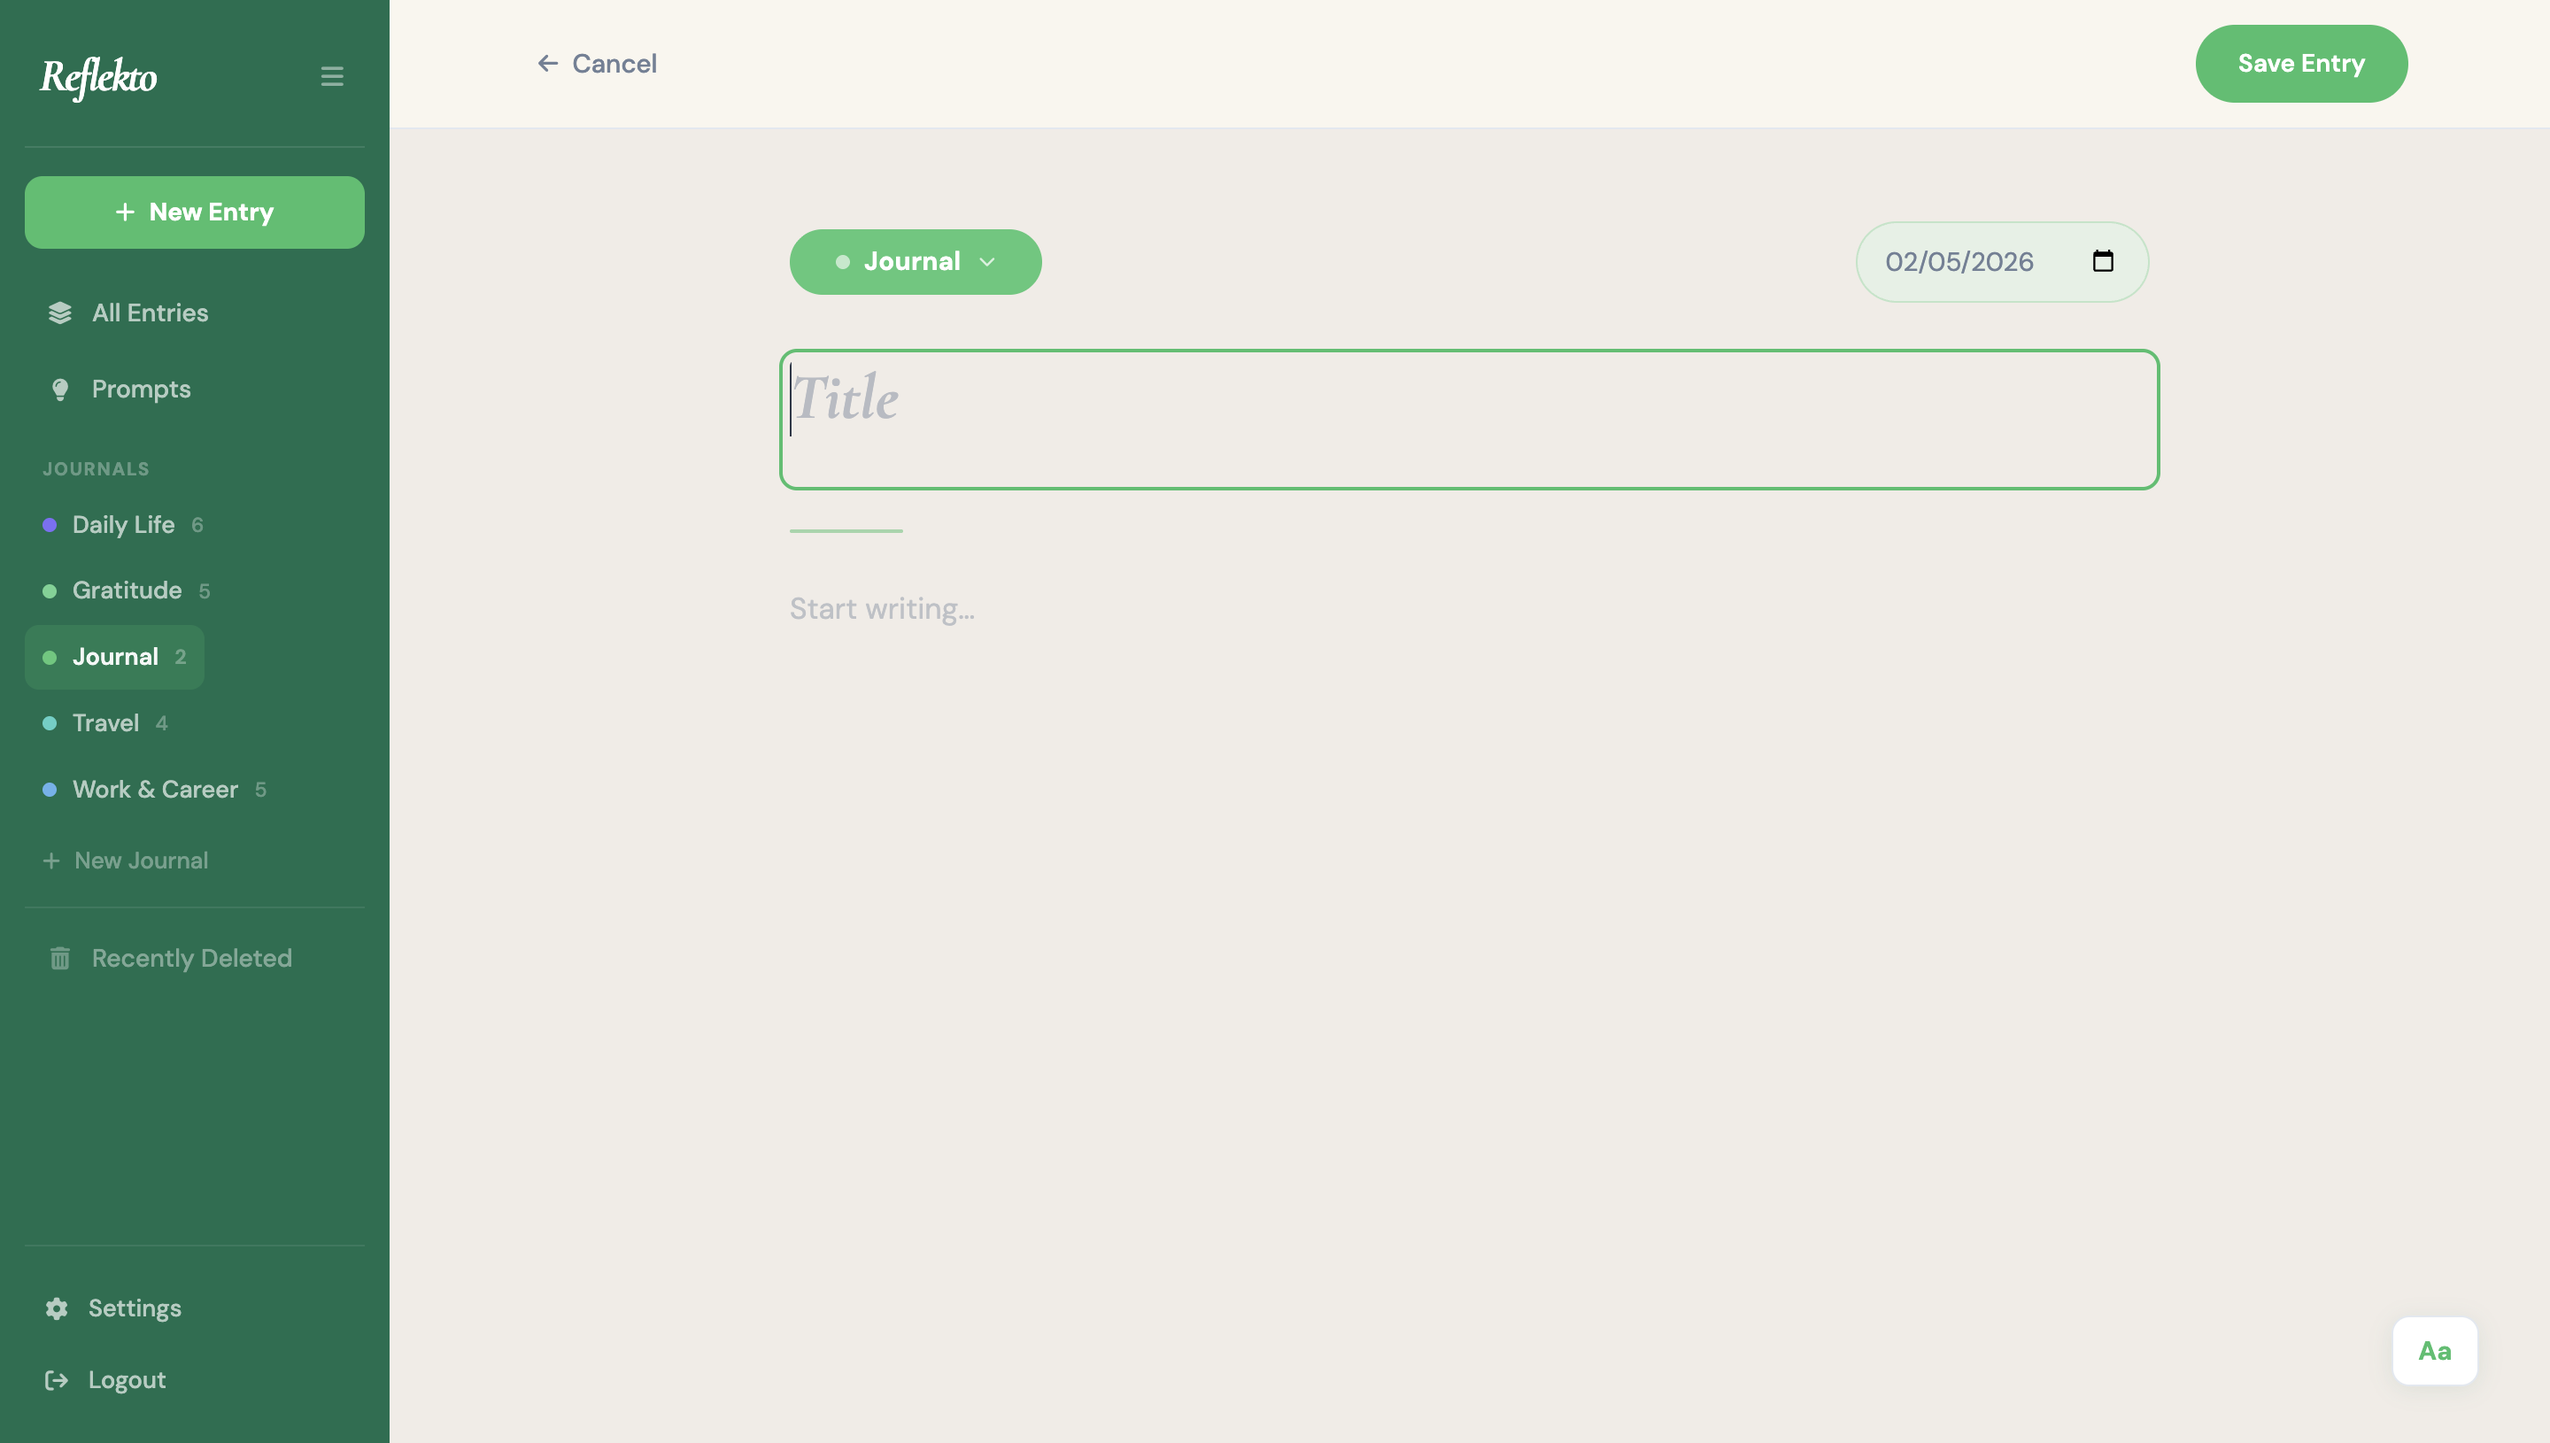
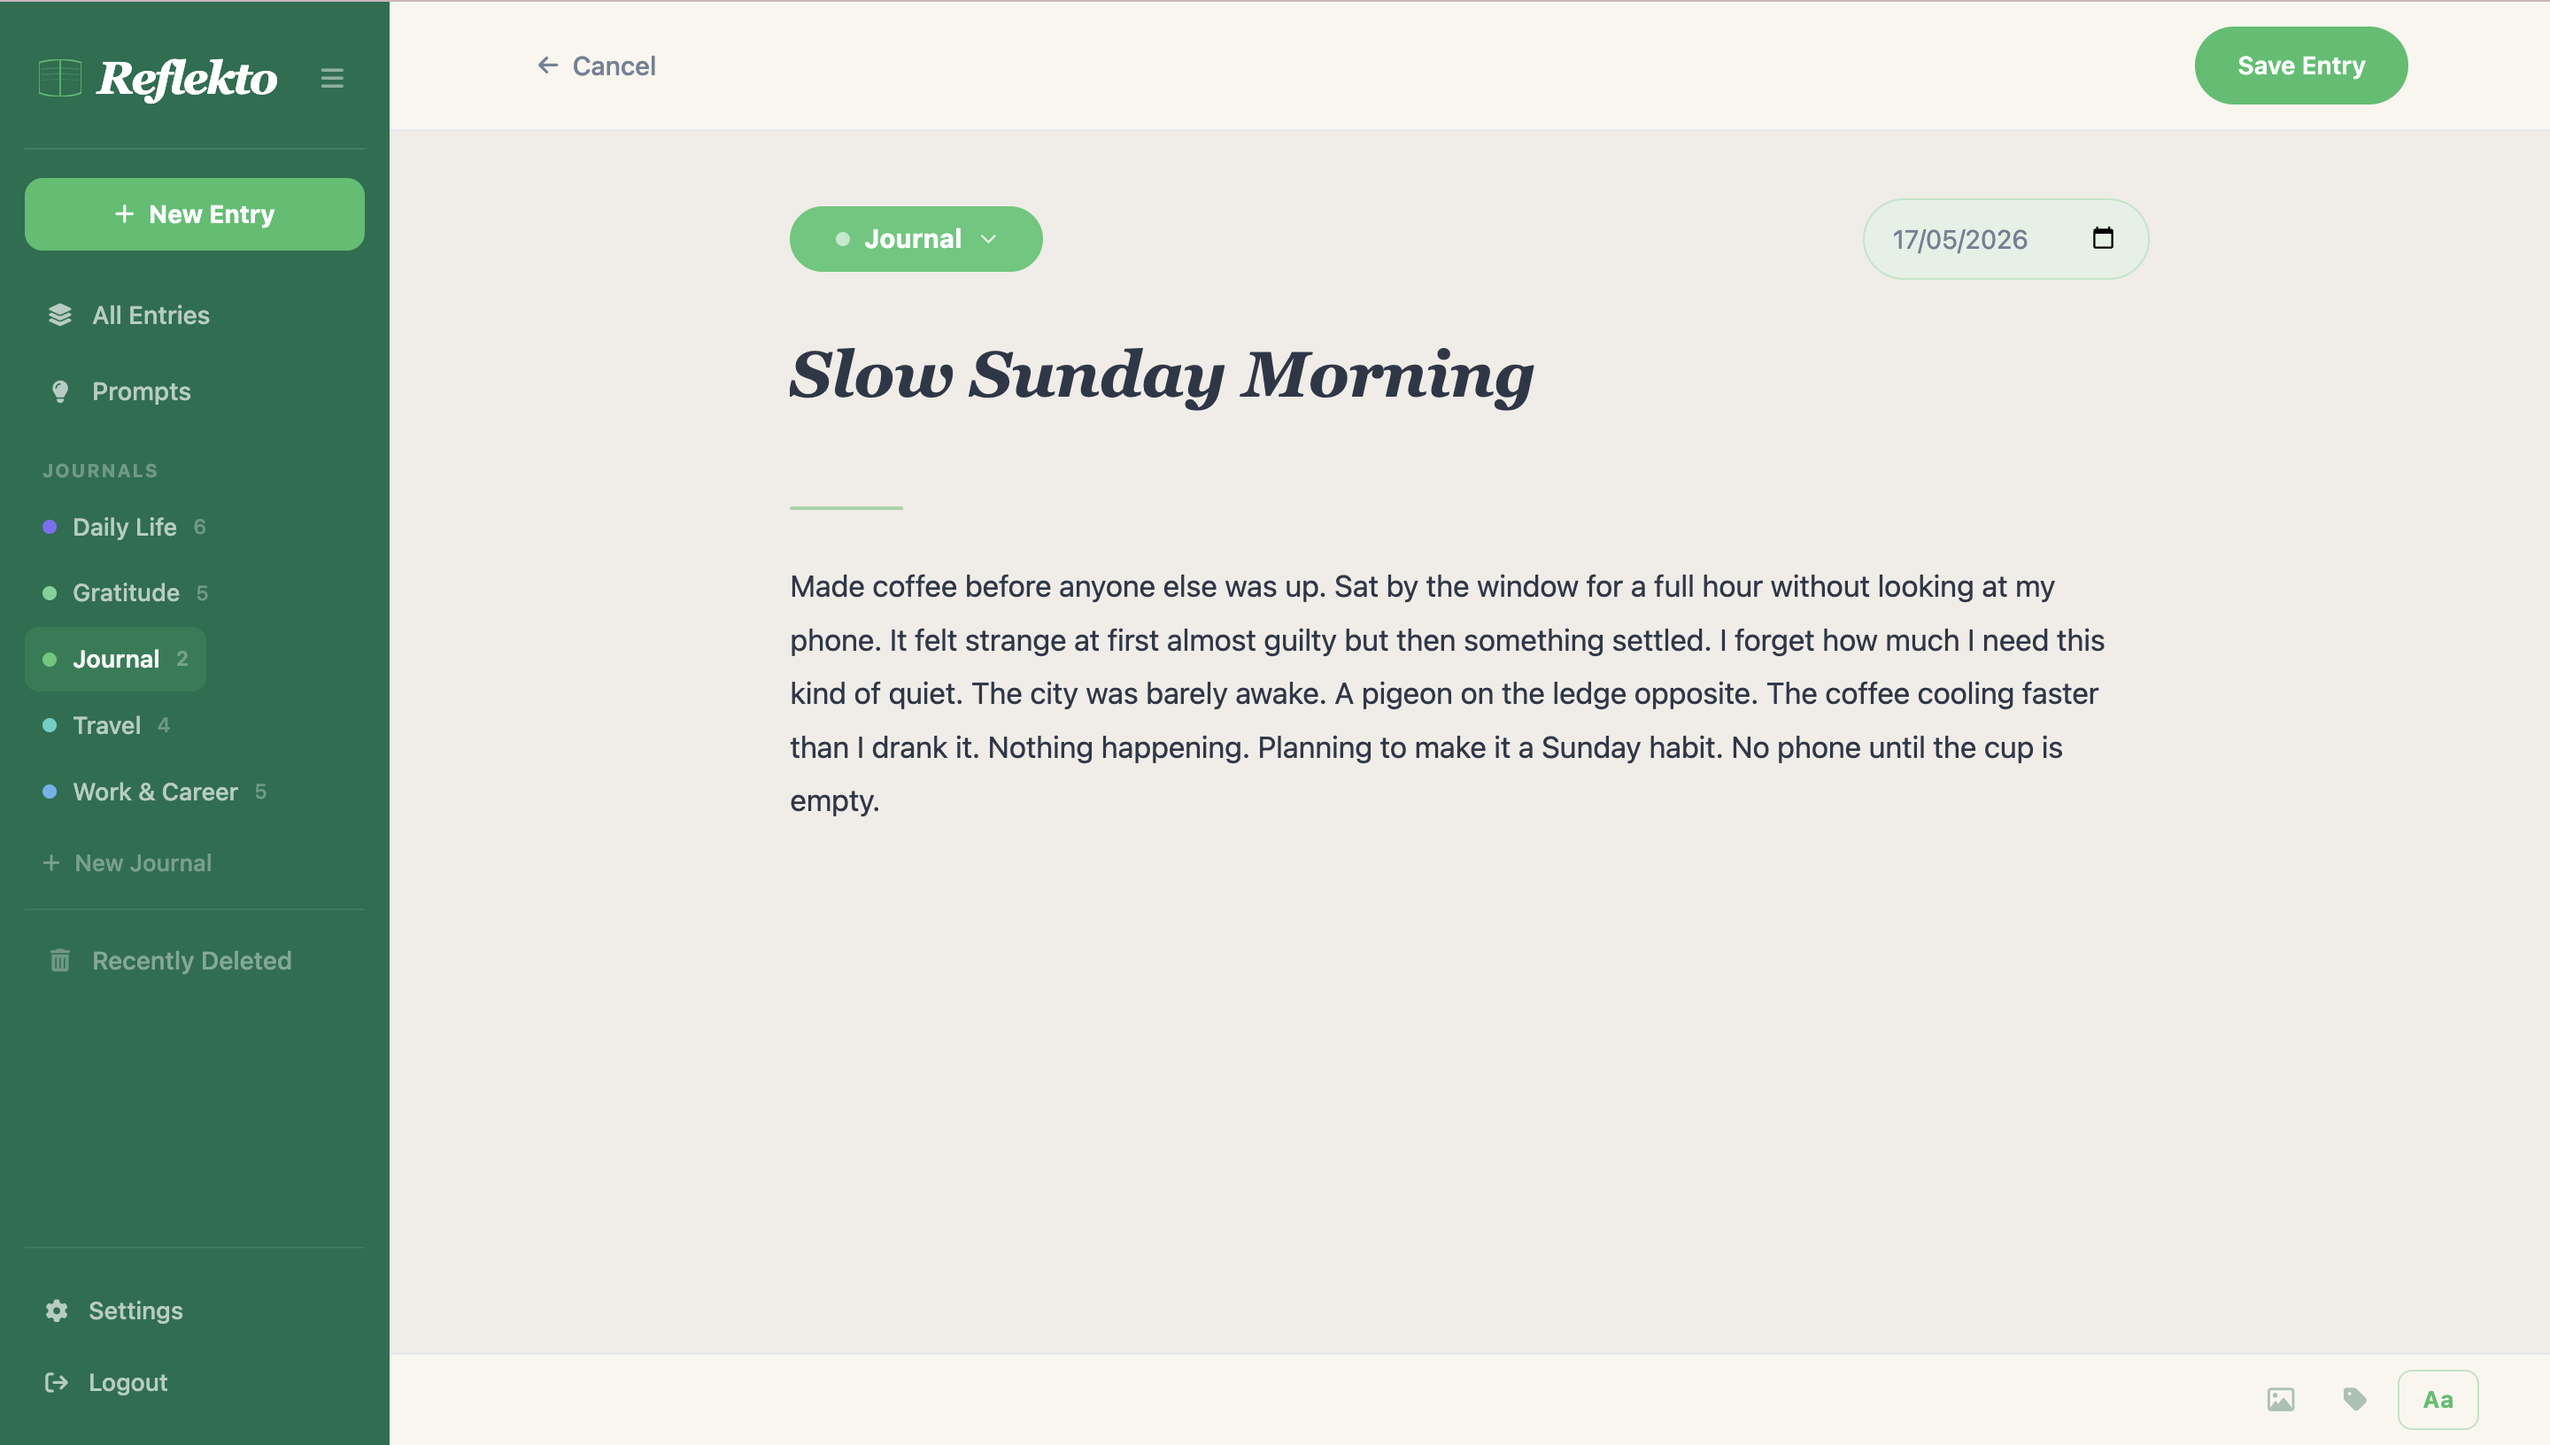
chore: update Phase 6 checklist and screenshot asset

diff --git a/claude.md b/claude.md
@@ -164,13 +164,15 @@ Recommended improvement: ditch the cron + window approach. Instead, when a user 
 ### 🚀 Phase 6: Final Refinement & Launch
 *Goal: Squash bugs and go live.*
 
-- [ ] Run `heroku run rails db:migrate --app reflektoapp` — apply `provider`/`uid` + `timezone` + `confirmable` columns to prod DB
-- [ ] Test Google OAuth end-to-end on production
-- [ ] Verify Resend email delivery (welcome email + forgot-password + confirmation) on production
-- [ ] Verify GoodJob reminder cron fires correctly on production
-- [ ] Cleanup: Remove faker gem, clear test seeds
-- [ ] Merge `feature/google-oauth-and-improvements` → `master` (open PR first)
-- [ ] Final smoke test on https://www.reflektoapp.com
+- [x] Run `heroku run rails db:migrate --app reflektoapp` — `provider`/`uid` columns confirmed present in production
+- [x] Cleanup: Faker gem removed, seeds production-safe (guard clause in place, only alex@reflekto.app demo data)
+- [x] Merge `feature/google-oauth-and-improvements` → `master` (PR #18, merged)
+- [x] Bug fixes (branch `fix/landing-page-scroll-reveal`): scroll-reveal animation (CSP/Stimulus), tag autocomplete (mousedown blur fix + scrollable dropdown), streak stat on All Entries, multi-tag filter, name presence validation, delete account paste prevention, legal page nav spacing, about page, showcase copy, password reset security (30 min expiry, no raw URL)
+- [x] **Fix Google OAuth on production** — `Error 400: redirect_uri_mismatch`. Add `https://www.reflektoapp.com/users/auth/google_oauth2/callback` to Authorized Redirect URIs in Google Cloud Console (APIs & Services → Credentials → OAuth 2.0 Client)
+- [x] Merge `fix/landing-page-scroll-reveal` → `master`, push to Heroku
+- [x] Verify Resend email delivery on production (welcome email + forgot-password + confirmation)
+- [x] Verify GoodJob reminder cron fires correctly on production
+- [x] Final smoke test on https://www.reflektoapp.com
 - [ ] Migrate from Heroku to Railway (reduces ~$15/month)
   - Sign up at railway.app, connect GitHub repo
   - Add PostgreSQL service (auto-injects `DATABASE_URL`)
@@ -183,24 +185,26 @@ Recommended improvement: ditch the cron + window approach. Instead, when a user 
 ---
 
 ## Current Status
-**Branch:** `feature/google-oauth-and-improvements`
+**Branch:** `fix/landing-page-scroll-reveal` (ready to merge → master)
 
 **Phases Complete:** Phase 1, Phase 2, Phase 3, Phase 4, Phase 5, Phase 5.5 ✅
 
 **Current Phase:** Phase 6 — Final Refinement & Launch
 
-**Completed since last update (May 1, 2026):**
-- GoodJob background jobs: `SendReminderEmailJob` (every 5 min cron) + `PurgeExpiredEntriesJob` (nightly cron)
-- Resend email: ActionMailer SMTP configured for dev + prod, `UserMailer#welcome` + `ReminderMailer#daily_reminder` with HTML + text templates
-- Google OAuth: full flow — Google Cloud Console credentials, `omniauth-google-oauth2` gem, `User.from_omniauth`, callback controller, routes
-- Auth page redesign: solid black Google button, removed confirm password, logo as home link, ToS line on sign-up, `auth-divider`
-- Heroku deployment: app live at https://www.reflektoapp.com (Heroku EU, Postgres add-on, Cloudinary, ACM SSL)
+**Completed since last update (May 17, 2026):**
+- All 6 local bugs fixed and committed on `fix/landing-page-scroll-reveal`
+- About page created (`/about`) with founder story, values (simplicity, privacy-first, free forever), CTA
+- Showcase Row 2 copy updated on landing page
+- Password reset email: 30-minute expiry, raw URL fallback removed (one-time use is Devise built-in)
+- Manifest.js fix: `//= link application.css` added to resolve `AssetNotPrecompiledError`
+- Production DB cleaned: only `alex@reflekto.app` remains (both local and Heroku)
+- Production migration confirmed: `provider`/`uid` columns exist
 
 **Immediate next steps:**
-1. `heroku run rails db:migrate --app reflektoapp` — adds `provider`/`uid` columns to prod DB
-2. Test Google OAuth on production
-3. Open PR: `feature/google-oauth-and-improvements` → `master`
-4. Phase 6 cleanup (remove faker, test seeds)
+1. Add `https://www.reflektoapp.com/users/auth/google_oauth2/callback` to Google Cloud Console OAuth redirect URIs (fixes production OAuth)
+2. Merge `fix/landing-page-scroll-reveal` → `master` and `git push heroku master`
+3. Verify email delivery (Resend) and GoodJob cron on production
+4. Final smoke test
 
 ---
 
@@ -224,5 +228,5 @@ Recommended improvement: ditch the cron + window approach. Instead, when a user 
 
 ---
 
-**Last Updated:** May 1, 2026
-**Current Focus:** Phase 6 — run prod migration, test Google OAuth, open PR to master (branch: `feature/google-oauth-and-improvements`)
+**Last Updated:** May 17, 2026
+**Current Focus:** Phase 6 — fix Google OAuth redirect URI in Google Cloud Console, then merge `fix/landing-page-scroll-reveal` → master and deploy
